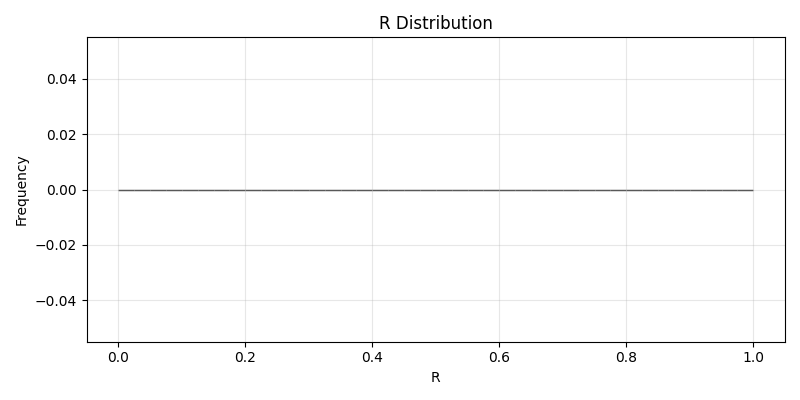
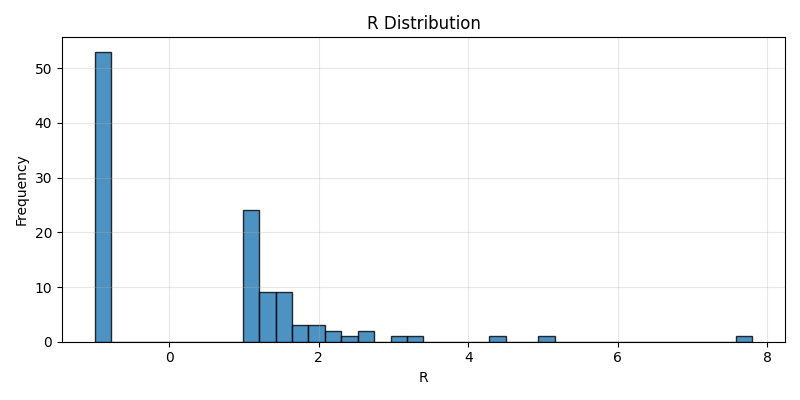
Complete configs

diff --git a/convert_signals_to_report.py b/convert_signals_to_report.py
@@ -1,0 +1,110 @@
+"""
+تبدیل فایل سیگنالها به فرمت ReportHistory برای بهینهساز خروج
+این اسکریپت سیگنالهای ورود را به معاملات شبیهسازی شده تبدیل میکند
+"""
+import pandas as pd
+import numpy as np
+from datetime import timedelta
+
+def convert_signals_to_report(
+    signals_path: str = "EURUSD_signals_all_sorted_istanbul.csv",
+    output_path: str = "ReportHistory.csv",
+    default_duration_hours: int = 24
+):
+    """
+    تبدیل سیگنالها به فرمت ReportHistory
+    
+    Args:
+        signals_path: مسیر فایل سیگنالها
+        output_path: مسیر خروجی
+        default_duration_hours: مدت زمان پیشفرض هر معامله (ساعت)
+    """
+    print(f"📖 Reading signals from {signals_path}...")
+    df = pd.read_csv(signals_path)
+    
+    print(f"✓ Loaded {len(df)} signals")
+    print(f"  Date range: {df['Time'].min()} to {df['Time'].max()}")
+    
+    # تبدیل زمان به datetime
+    df['Time'] = pd.to_datetime(df['Time'])
+    
+    # ساخت DataFrame با فرمت ReportHistory
+    report = pd.DataFrame()
+    
+    # ستونهای اصلی
+    report['Time'] = df['Time'].dt.strftime('%Y.%m.%d %H:%M:%S')  # زمان باز شدن
+    report['Position'] = range(90000000, 90000000 + len(df))  # شماره پوزیشن
+    report['Symbol'] = df['symbol']
+    report['Type'] = df['direction']  # buy/sell
+    report['Volume'] = 0.01  # حجم پیشفرض
+    report['Price'] = df['entry']  # قیمت ورود
+    report['S / L'] = df['sl']  # Stop Loss
+    report['T / P'] = df['tp']  # Take Profit (ممکن است NaN باشد)
+    
+    # زمان بسته شدن: زمان باز شدن + مدت پیشفرض
+    close_times = df['Time'] + timedelta(hours=default_duration_hours)
+    report['Time.1'] = close_times.dt.strftime('%Y.%m.%d %H:%M:%S')
+    
+    # قیمت بسته شدن: فرض میکنیم معاملات به SL رسیدهاند (بدبینانهترین حالت)
+    # بهینهساز روی تیکها خروج واقعی را شبیهسازی میکند
+    report['Price.1'] = df['sl']
+    
+    # ستونهای مالی
+    report['Commission'] = -0.20  # کمیسیون پیشفرض
+    report['Swap'] = 0.0
+    
+    # سود/ضرر: فرض میکنیم به SL رسیده (-1R)
+    # محاسبه ریسک برای هر معامله
+    risk = (df['entry'] - df['sl']).abs()
+    pip_value = 0.01 * 10000  # برای EURUSD با حجم 0.01
+    report['Profit'] = -risk * pip_value
+    
+    # برچسب نتیجه
+    report['result'] = 'loss'  # فرض پیشفرض (بهینهساز خروج واقعی را محاسبه میکند)
+    
+    # ذخیره
+    report.to_csv(output_path, index=False)
+    print(f"\n✅ Converted report saved to: {output_path}")
+    print(f"   Total trades: {len(report)}")
+    print(f"   Format: MetaTrader ReportHistory compatible")
+    
+    # نمایش نمونه
+    print("\n📊 Sample (first 3 rows):")
+    print(report.head(3).to_string())
+    
+    # آمار
+    print(f"\n📈 Statistics:")
+    print(f"   Buy trades: {(report['Type'] == 'buy').sum()}")
+    print(f"   Sell trades: {(report['Type'] == 'sell').sum()}")
+    print(f"   Time range: {report['Time'].min()} → {report['Time.1'].max()}")
+    
+    # بررسی اینکه Time != Time.1
+    sample_check = pd.read_csv(output_path)
+    time_different = (sample_check['Time'] != sample_check.iloc[:, 8]).all()
+    print(f"\n✓ Verification: Time ≠ Time.1 for all rows: {time_different}")
+    
+    return report
+
+
+if __name__ == "__main__":
+    print("=" * 60)
+    print("🔄 Converting Signals to ReportHistory Format")
+    print("=" * 60)
+    
+    # پشتیبانگیری از فایل قدیمی
+    import os
+    if os.path.exists("ReportHistory.csv"):
+        import shutil
+        shutil.copy("ReportHistory.csv", "ReportHistory_backup.csv")
+        print("💾 Backup created: ReportHistory_backup.csv")
+    
+    # تبدیل
+    convert_signals_to_report(
+        signals_path="EURUSD_signals_all_sorted_istanbul.csv",
+        output_path="ReportHistory.csv",
+        default_duration_hours=48  # هر معامله 48 ساعت زمان دارد
+    )
+    
+    print("\n" + "=" * 60)
+    print("✅ Done! Now you can run: python grid_exit_optimization.py")
+    print("=" * 60)

diff --git a/exit_optimizer_core.py b/exit_optimizer_core.py
@@ -15,6 +15,16 @@ import matplotlib.pyplot as plt
 # Data loading and parsing
 # -----------------------------
 
+# Global cache for tick files to avoid repeated loading
+_TICKS_CACHE: Dict[str, pd.DataFrame] = {}
+
+
+def clear_ticks_cache() -> None:
+    """Clear the global ticks cache to free memory."""
+    global _TICKS_CACHE
+    _TICKS_CACHE.clear()
+
+
 REPORT_TIME_FORMATS = ["%Y.%m.%d %H:%M:%S", "%Y.%m.%d %H:%M"]
 
 
@@ -64,9 +74,20 @@ def read_report_csv(path: str) -> pd.DataFrame:
     return df
 
 
+# Global cache for tick files to avoid repeated loading
+_TICKS_CACHE: Dict[str, pd.DataFrame] = {}
+
+
 def read_ticks_csv(path: str) -> pd.DataFrame:
+    # Check cache first
+    if path in _TICKS_CACHE:
+        return _TICKS_CACHE[path]
+    
     if not os.path.exists(path):
-        return pd.DataFrame(columns=["time", "bid", "ask"])  # allow missing months
+        empty_df = pd.DataFrame(columns=["time", "bid", "ask"])
+        _TICKS_CACHE[path] = empty_df
+        return empty_df
+    
     df = pd.read_csv(path)
     for c in ["time", "bid", "ask"]:
         if c not in df.columns:
@@ -74,6 +95,9 @@ def read_ticks_csv(path: str) -> pd.DataFrame:
     df["time"] = pd.to_datetime(df["time"], errors="coerce")
     df = df.dropna(subset=["time"]).copy()
     df = df.sort_values("time")
+    
+    # Cache the loaded dataframe
+    _TICKS_CACHE[path] = df
     return df
 
 
@@ -89,12 +113,25 @@ def load_ticks_for_window(symbol: str, start: pd.Timestamp, end: pd.Timestamp, r
     frames: List[pd.DataFrame] = []
     ticks_dir = os.path.join(root, "ticks")
     for y, m in month_keys:
-        path = os.path.join(ticks_dir, f"Ticks_{symbol}_{y:04d}_{m:02d}.csv")
-        frames.append(read_ticks_csv(path))
+        # Try both naming patterns
+        path1 = os.path.join(ticks_dir, f"Ticks_{symbol}_{y:04d}_{m:02d}.csv")
+        path2 = os.path.join(ticks_dir, f"{symbol}_{y:04d}_{m:02d}_ticks.csv")
+        
+        if os.path.exists(path1):
+            frames.append(read_ticks_csv(path1))
+        elif os.path.exists(path2):
+            frames.append(read_ticks_csv(path2))
+        # Skip else clause - don't append empty df if file doesn't exist
 
     if not frames:
         return pd.DataFrame(columns=["time", "bid", "ask"]).copy()
-    merged = pd.concat(frames, ignore_index=True) if len(frames) > 1 else frames[0]
+    
+    # Filter out empty frames before concat to avoid FutureWarning
+    non_empty_frames = [f for f in frames if not f.empty]
+    if not non_empty_frames:
+        return pd.DataFrame(columns=["time", "bid", "ask"]).copy()
+        
+    merged = pd.concat(non_empty_frames, ignore_index=True) if len(non_empty_frames) > 1 else non_empty_frames[0]
     if merged.empty:
         return merged
     # filter by window

diff --git a/grid_exit_optimization.py b/grid_exit_optimization.py
@@ -41,6 +41,9 @@ def run_grid_search() -> None:
         print("No trades in report after filtering. Exiting.")
         return
 
+    print(f"🔄 Starting grid search with {len(df_report)} trades")
+    print("📦 Tick file caching is enabled - first iteration will be slower, subsequent ones faster")
+
     # grid space definition per user spec
     grid_space = {
         "scaleout_r": [None, 1.0],
@@ -58,11 +61,21 @@ def run_grid_search() -> None:
     df_report = df_report.sort_values("Time")
     skipped_no_ticks = 0
     total_considered = 0
+    
+    # Count total parameter combinations
+    total_combinations = sum(1 for _ in grid_space_iter(grid_space))
+    print(f"🎯 Testing {total_combinations} parameter combinations")
 
+    combination_num = 0
     for params_dict in grid_space_iter(grid_space):
+        combination_num += 1
         params = ExitParams(**params_dict)
         r_values: List[float] = []
         reasons: List[str] = []
+        
+        # Print progress every 10 combinations
+        if combination_num % 10 == 0 or combination_num == 1:
+            print(f"⏳ Progress: {combination_num}/{total_combinations} combinations tested...")
 
         for _, row in df_report.iterrows():
             total_considered += 1
